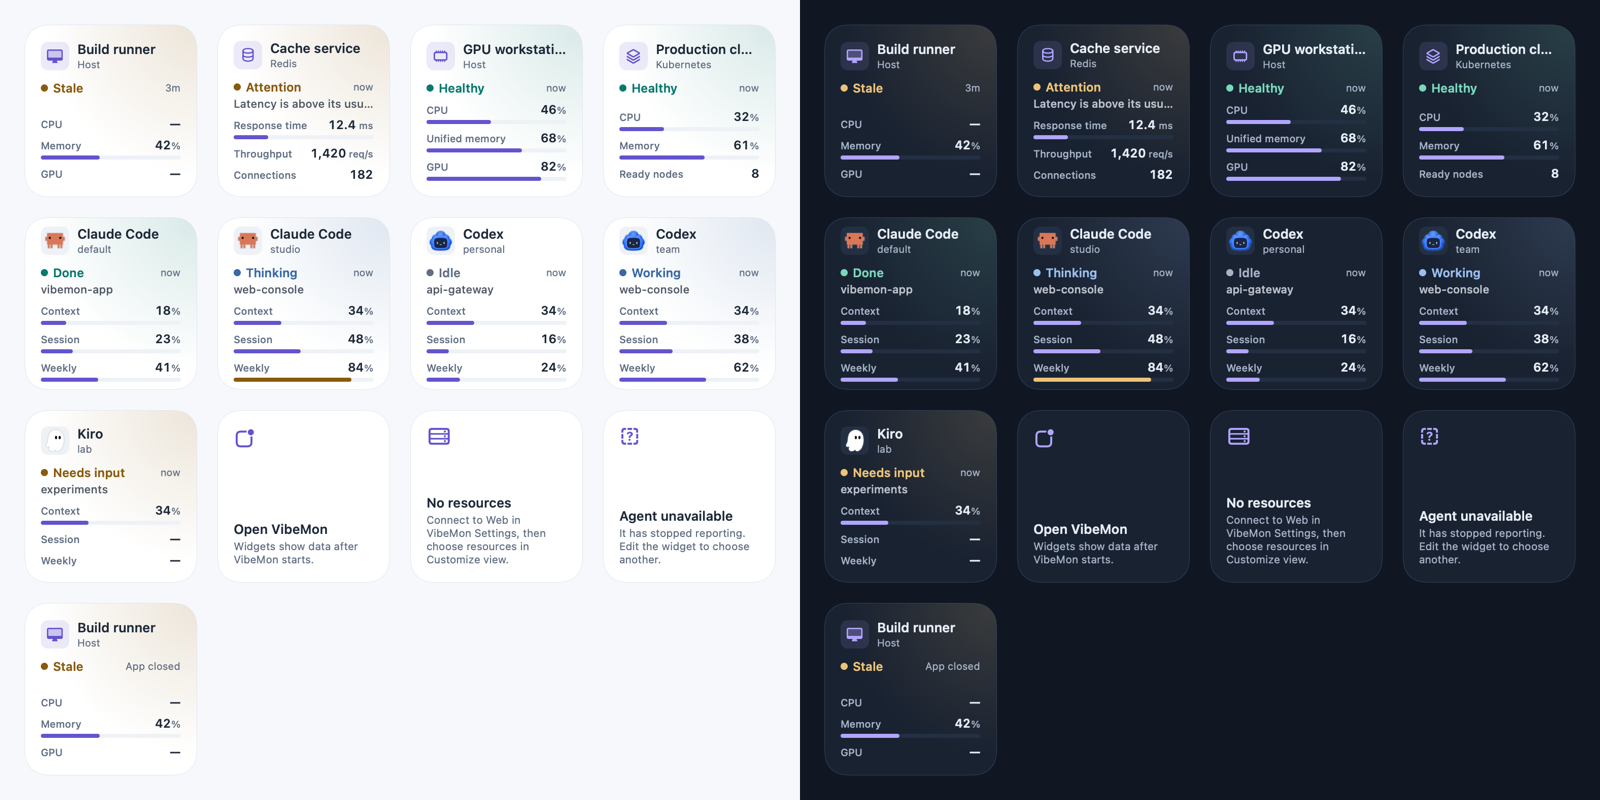
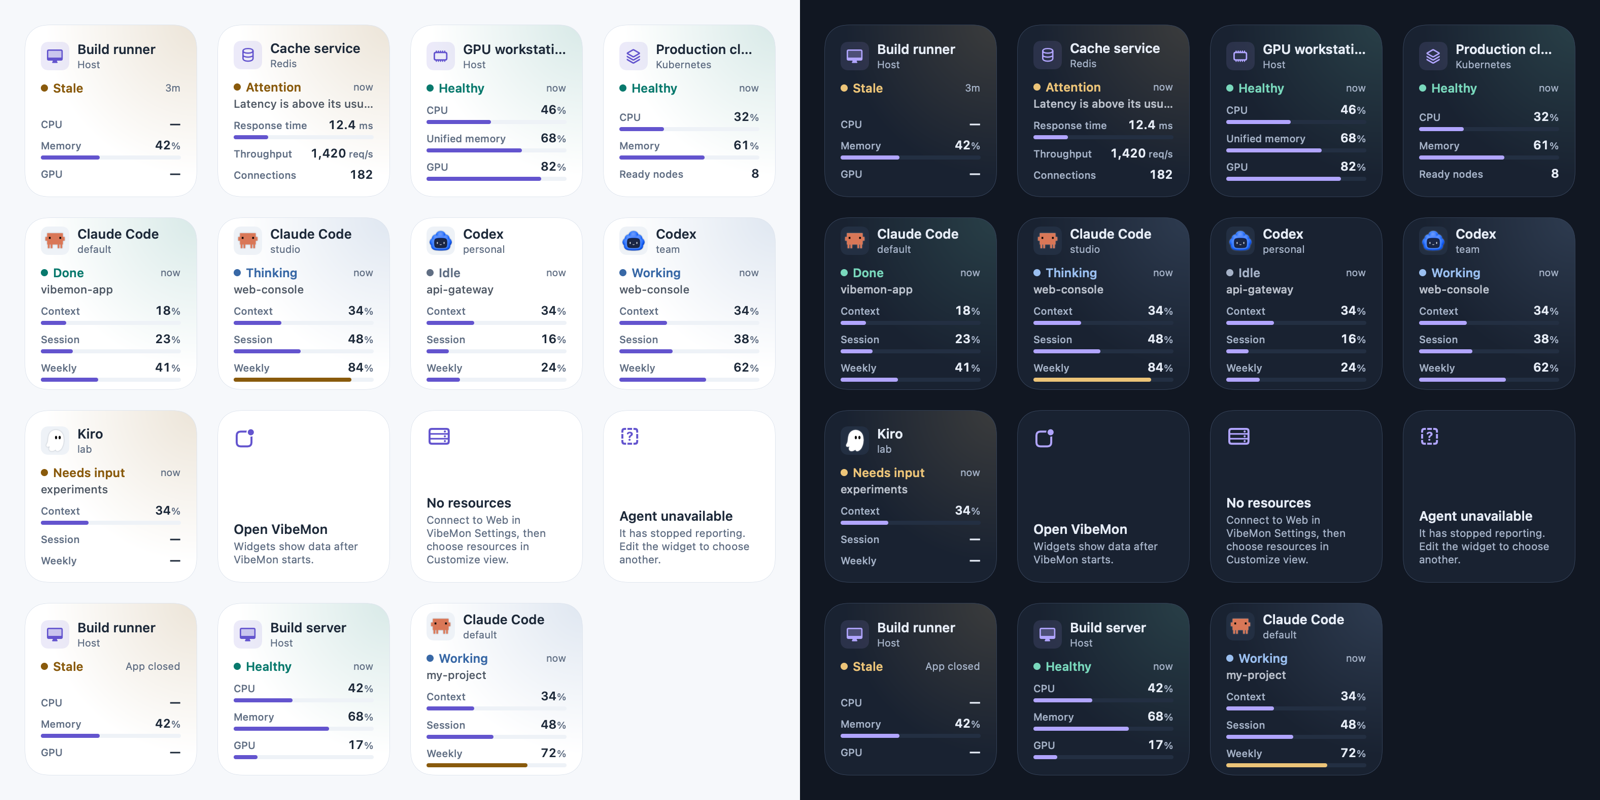
feat: show widget gallery samples and drop unused reset times

diff --git a/native/macos/Shared/Samples.swift b/native/macos/Shared/Samples.swift
@@ -1,0 +1,27 @@
+import Foundation
+
+/// Example items for the widget gallery and placeholders, before VibeMon has
+/// written data that the widget can show.
+enum Samples {
+    static func item(_ kind: FeedItem.Kind, now: Date = .now) -> FeedItem {
+        let at = now.formatted(.iso8601)
+        let json = switch kind {
+        case .resource: """
+            {"id":"sample:resource","kind":"resource","title":"Build server","subtitle":"Host","symbol":"host","observedAt":"\(at)",
+             "metrics":[{"key":"cpu","label":"CPU","value":"42","unit":"%","fraction":0.42,"tone":"normal"},
+                        {"key":"memory","label":"Memory","value":"68","unit":"%","fraction":0.68,"tone":"normal"},
+                        {"key":"gpu","label":"GPU","value":"17","unit":"%","fraction":0.17,"tone":"normal"}],
+             "timeline":[{"at":"\(at)","state":"ok","label":"Healthy","tone":"good"}],"link":"vibemon://dashboard/resources"}
+            """
+        case .agent: """
+            {"id":"sample:agent","kind":"agent","title":"Claude Code","subtitle":"default","artwork":"clawd.png","observedAt":"\(at)",
+             "metrics":[{"key":"context","label":"Context","value":"34","unit":"%","fraction":0.34,"tone":"normal"},
+                        {"key":"session","label":"Session","value":"48","unit":"%","fraction":0.48,"tone":"normal"},
+                        {"key":"week","label":"Weekly","value":"72","unit":"%","fraction":0.72,"tone":"warning"}],
+             "timeline":[{"at":"\(at)","state":"working","label":"Working","tone":"active","project":"my-project"}],"link":"vibemon://dashboard/agents"}
+            """
+        }
+        // The literals above are fixed and valid; a decoding failure is a programming error.
+        return try! WidgetFeed.decode(Data(#"{"version":1,"generatedAt":"\#(at)","running":true,"items":[\#(json)]}"#.utf8)).items[0]
+    }
+}

diff --git a/native/macos/Widgets/VibeMonWidgets.swift b/native/macos/Widgets/VibeMonWidgets.swift
@@ -60,11 +60,16 @@ struct Provider<Selection: ItemSelection>: AppIntentTimelineProvider {
     let kind: FeedItem.Kind
 
     func placeholder(in context: Context) -> Entry {
-        Entry(date: .now, content: .notice(.empty(kind)))
+        Entry(date: .now, content: .item(Samples.item(kind), running: true))
     }
 
     func snapshot(for configuration: Selection, in context: Context) async -> Entry {
-        Entry(date: .now, content: content(for: configuration))
+        let content = content(for: configuration)
+        // The gallery shows an example until VibeMon has an item of this kind.
+        if context.isPreview, case .notice = content {
+            return Entry(date: .now, content: .item(Samples.item(kind), running: true))
+        }
+        return Entry(date: .now, content: content)
     }
 
     func timeline(for configuration: Selection, in context: Context) async -> Timeline<Entry> {

diff --git a/native/macos/Shared/WidgetViews.swift b/native/macos/Shared/WidgetViews.swift
@@ -21,7 +21,7 @@ struct Notice: Sendable, Equatable {
     static let agents = URL(string: "vibemon://dashboard/agents")!
 
     static let appMissing = Notice(symbol: "app.badge", title: "Open VibeMon", detail: "Widgets show data after VibeMon starts.", link: dashboard)
-    static let appUnsupported = Notice(symbol: "arrow.down.app", title: "Update VibeMon", detail: "This widget needs the VibeMon version that installed it.", link: dashboard)
+    static let appUnsupported = Notice(symbol: "arrow.clockwise", title: "Restart VibeMon", detail: "The running App and this widget are different versions.", link: dashboard)
     static let feedUnreadable = Notice(symbol: "exclamationmark.triangle", title: "Data unavailable", detail: "Quit and reopen VibeMon to write the widget data again.", link: dashboard)
 
     static func empty(_ kind: FeedItem.Kind) -> Notice {

diff --git a/native/macos/Preview/main.swift b/native/macos/Preview/main.swift
@@ -25,10 +25,11 @@ do {
 CharacterArt.directories = [URL(fileURLWithPath: arguments[2], isDirectory: true)]
 let now = arguments.count == 5 ? (try? Date.ISO8601FormatStyle(includingFractionalSeconds: true).parse(arguments[4])) ?? feed.generatedAt : feed.generatedAt
 
-// The last tile shows the first item as it looks after the App quits.
+// After the feed items: notices, the first item after the App quits, and the gallery samples.
 let contents: [WidgetContent] = feed.items.map { .item($0, running: feed.running) }
     + [.notice(.appMissing), .notice(.empty(.resource)), .notice(.unavailable(.agent))]
     + feed.items.prefix(1).map { .item($0, running: false) }
+    + [.item(Samples.item(.resource, now: now), running: true), .item(Samples.item(.agent, now: now), running: true)]
 
 struct Tile: View {
     let content: WidgetContent

diff --git a/native/macos/Shared/Feed.swift b/native/macos/Shared/Feed.swift
@@ -97,7 +97,6 @@ struct FeedMetric: Decodable, Sendable, Identifiable {
     /// Gauge fill from 0 to 1. `nil` for numbers and missing values.
     let fraction: Double?
     let tone: MetricTone
-    let resetsAt: Date?
 
     var id: String { key }
 }

diff --git a/docs/widgets.md b/docs/widgets.md
@@ -37,7 +37,7 @@ A coding agent combines all projects of one provider account. The project that n
 | **No resources** | No resource is selected. Connect to Web in **Settings → Connections**, then choose resources in **Customize view**. |
 | **No coding agents** | No account has reported. Install an integration in **Settings → Integrations**, or select accounts in **Customize view**. |
 | **Resource unavailable** / **Agent unavailable** | The chosen item is no longer selected or reporting. Edit the widget to choose another. |
-| **Update VibeMon** | The App and the widget use different data versions. Install the current VibeMon release. |
+| **Restart VibeMon** | The running App and the widget use different data versions, for example after an update. Quit and reopen VibeMon. |
 | **Data unavailable** | The widget data cannot be read. Quit and reopen VibeMon. |
 
 ## Refresh and privacy
